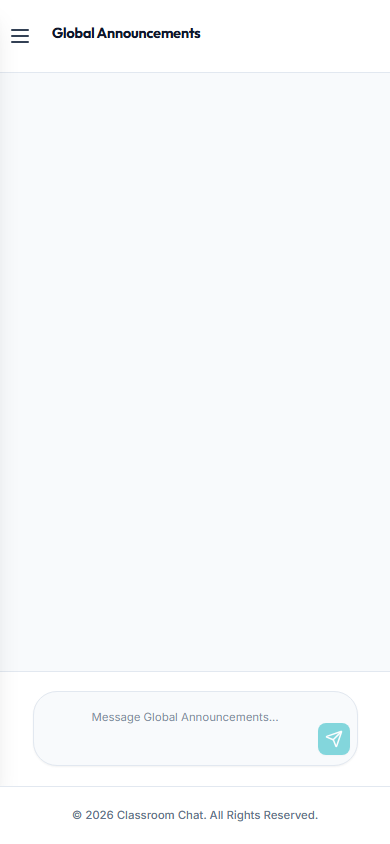
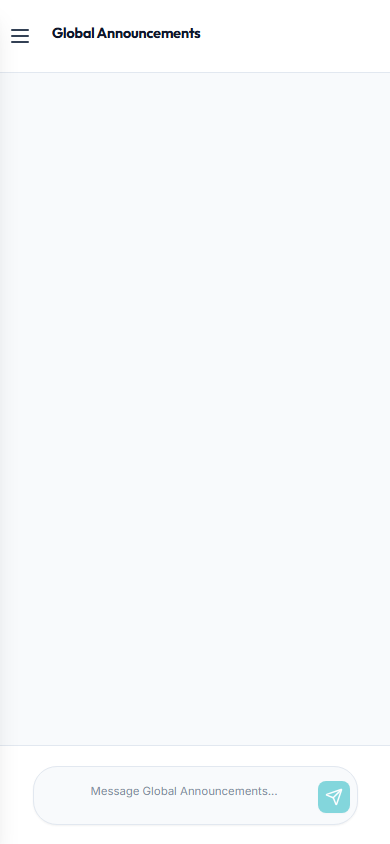
test: update mobile UI audit reports, screenshots, and issue resolution status

Changed region(s): [[0.1846, 0.9242, 0.9231, 0.9858], [0.2462, 0.8318, 0.6769, 0.8626], [0.8, 0.8318, 0.9231, 0.8934]]

diff --git a/frontend/playwright-report/index.html b/frontend/playwright-report/index.html
@@ -87,4 +87,4 @@ Error generating stack: `+l.message+`
     <div id='root'></div>
   </body>
 </html>
[2 lines of base64/hex data omitted]

diff --git a/issues/completed/iss_205_mobile_parent_missing_navigation.md b/issues/completed/iss_205_mobile_parent_missing_navigation.md
@@ -1,0 +1,29 @@
+# Mobile Parent Missing Navigation Menu
+
+## Description
+The Parent Dashboard lacks the global navigation layout (such as the hamburger menu, sidebar, or bottom tab bar) that is present for other user roles. The `ParentDashboard` component does not use the standard `<Layout>` wrapper, leaving the user without access to global app features (e.g., Profile settings) and presenting an isolated UI on mobile viewports.
+
+## Steps to Reproduce
+1. Log in to the application as a parent user (e.g., using `test_parent` / `parent123`).
+2. Wait for the automatic redirect to `/parent/dashboard`.
+3. Resize the window to a mobile viewport (e.g., 390px width) or view it on a mobile device.
+4. Attempt to find the hamburger menu or navigation bar to access other areas of the application.
+
+## Expected Result
+A consistent global navigation menu (such as a hamburger menu) should be visible on the mobile viewport, allowing the parent to access their profile or other relevant global sections.
+
+## Actual Result
+No global navigation menu is present. The top of the page only displays the dashboard header with inline "Add Child" and "Sign Out" buttons. The user is isolated on the dashboard.
+
+## Impact
+Major - The absence of a standard layout breaks UI consistency across different roles and restricts the parent from accessing typical global features like a user profile or account settings.
+
+## Screenshots
+![Parent Dashboard Missing Navigation](file:///c:/Users/Ben/AntiGravity/classroom-chat/issues/screenshots/05_profile.png)
+
+## Root Cause
+The parent-specific routes (`/parent/dashboard`, `/parent/report/:studentId`, etc.) in `App.jsx` were directly rendering their respective components without wrapping them in the standard `<Layout>` component used by other routes. This resulted in the absence of the global navigation structure (like the hamburger menu on mobile) for users logged in as parents. Furthermore, `Layout.jsx` didn't account for parents, potentially showing student-specific links if they were to use it.
+
+## Changed Files
+- `frontend/src/App.jsx`
+- `frontend/src/components/Layout/Layout.jsx`

diff --git a/.agents/workflows/test-ui-mobile.md b/.agents/workflows/test-ui-mobile.md
@@ -13,7 +13,8 @@ This workflow provides the standardized procedure for finding and recording UI b
     1. Navigate to `http://localhost:8000/dev-login?role=admin` — the backend returns JSON confirming the session.
     2. Then navigate to `http://localhost:5173/` and verify the dashboard/chat loads (not the login page).
     - **CRITICAL**: Port **8000** is the backend. Port **5173** is the React app. They share the same session cookie.
-    - Do NOT use the standard `/login` form unless the task is explicitly about testing login behaviour.
+    - **Parent Account Testing**: When reviewing the mobile view for parents, navigate to the standard `/login` form and use the following credentials: username `test_parent` and password `parent123`.
+    - Do NOT use the standard `/login` form unless the task is explicitly about testing login behaviour, or you are using the test parent credentials.
     - If `/dev-login` returns an error, **stop and report the failure**. Do not attempt workarounds.
 4.  **Explore**: Use `browser_subagent` to systematically navigate through the application focusing on **common user flows** (e.g., Login -> Dashboard -> Chat -> Profile).
     - **QA Standards**: Reference [testing_and_qa.md](file:///c:/Users/Ben/AntiGravity/classroom-chat/docs/testing_and_qa.md) for the standardized audit criteria.